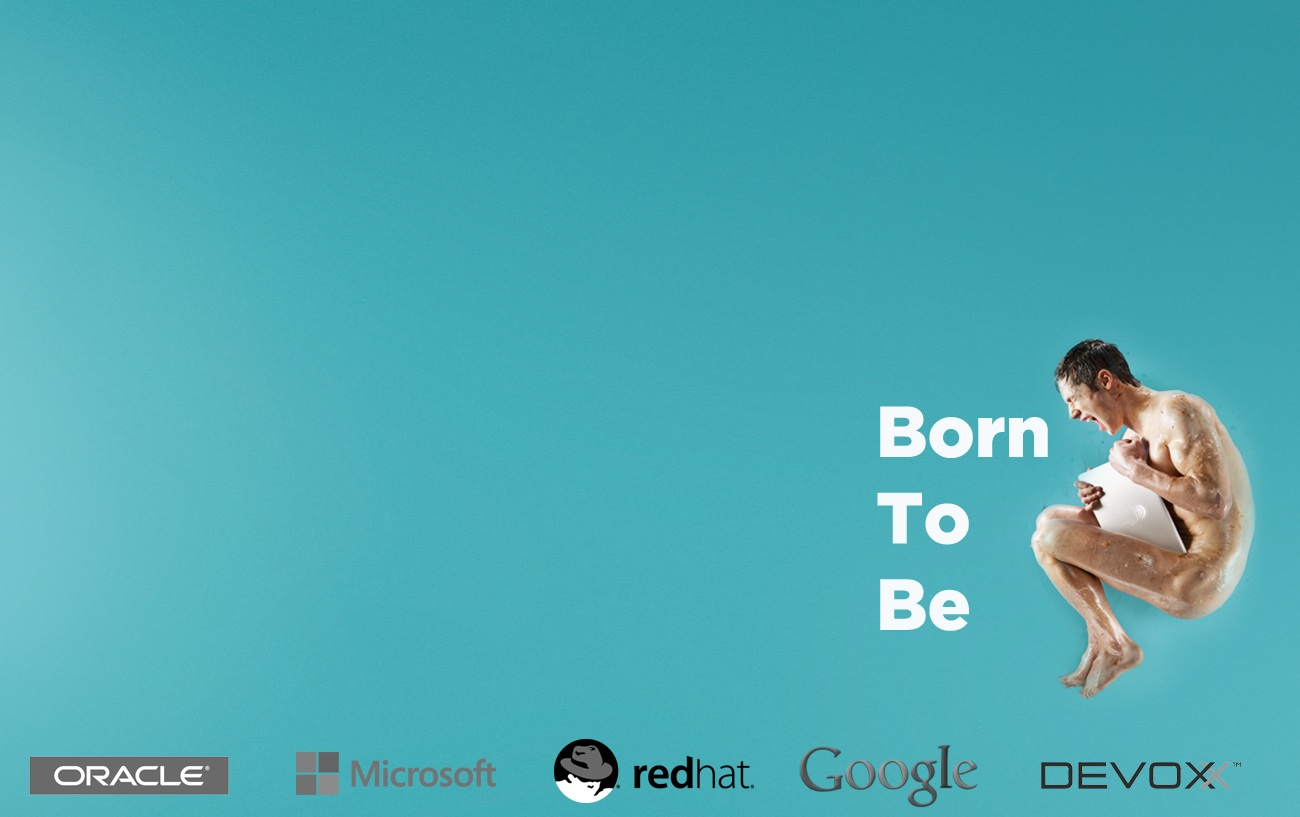
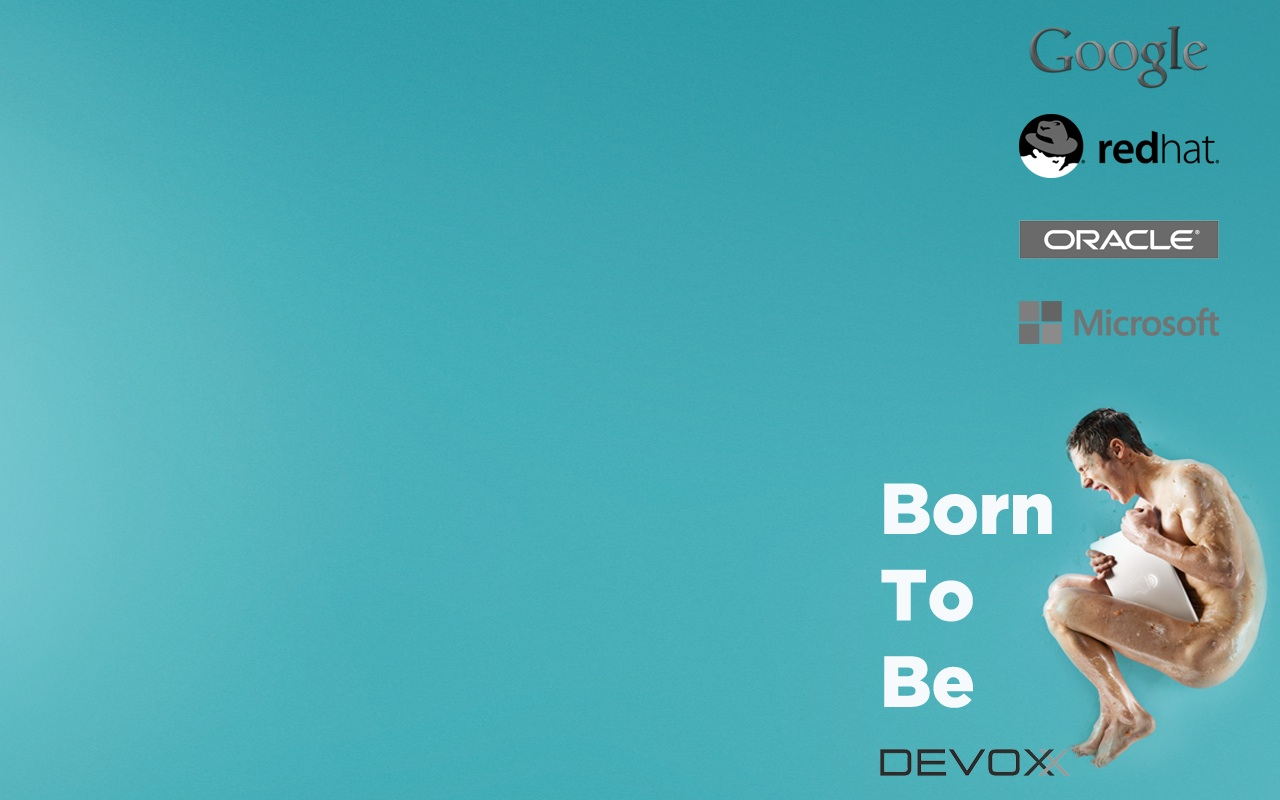
Make the angular code compatible with minification

diff --git a/app/scripts/wall/controllers.js b/app/scripts/wall/controllers.js
@@ -1,4 +1,7 @@
-function NoticeController($scope) {
+var wallApp = angular.module('wallApp', [ ]);
+
+
+wallApp.controller('NoticeController', [ '$scope', function ($scope) {
 
     var self = this;
 
@@ -27,9 +30,9 @@ function NoticeController($scope) {
         });
 
     }
-}
+}]);
 
-function TwallController($http, $scope) {
+wallApp.controller('TwallController', ['$http', '$scope', function ($http, $scope) {
 
     window.tc = this;
     var self = this;
@@ -108,7 +111,7 @@ function TwallController($http, $scope) {
         setInterval(self.tweetQueueProcessor, 3000);
     }
 
-}
+}]);
 
 var lsc = new LocalStorageController();
 
@@ -247,7 +250,7 @@ function LocalStorageController() {
  * @param $defer
  * @param $updateView
  */
-function ScheduleController($http, $scope) {
+wallApp.controller('ScheduleController', [ '$http', '$scope', function ($http, $scope) {
 
     window.sc = this; // Global var to interact with from console
 
@@ -476,6 +479,6 @@ function ScheduleController($http, $scope) {
         return talks;
     }
 
-}
+}]);
 
 

diff --git a/app/styles/wall.less b/app/styles/wall.less
@@ -14,8 +14,8 @@ body { background-color: black; }
 }
 
 #hallway {
-  @width: 1300px;
-  @height: 817px;
+  @width: 1280px;
+  @height: 800px;
   .screen(url('../images/dv13-hallwall.jpg'));
 }
 #cinema {

diff --git a/app/hallwall.html b/app/hallwall.html
@@ -42,7 +42,7 @@
     <!-- endbuild -->
 </head>
 
-<body ng-app>
+<body ng-app="wallApp">
 
     <div id="hallway">
 

diff --git a/app/cinemawall.html b/app/cinemawall.html
@@ -42,7 +42,7 @@
     <!-- endbuild -->
 </head>
 
-<body ng-app>
+<body ng-app="wallApp">
 
     <div id="cinema">
 
